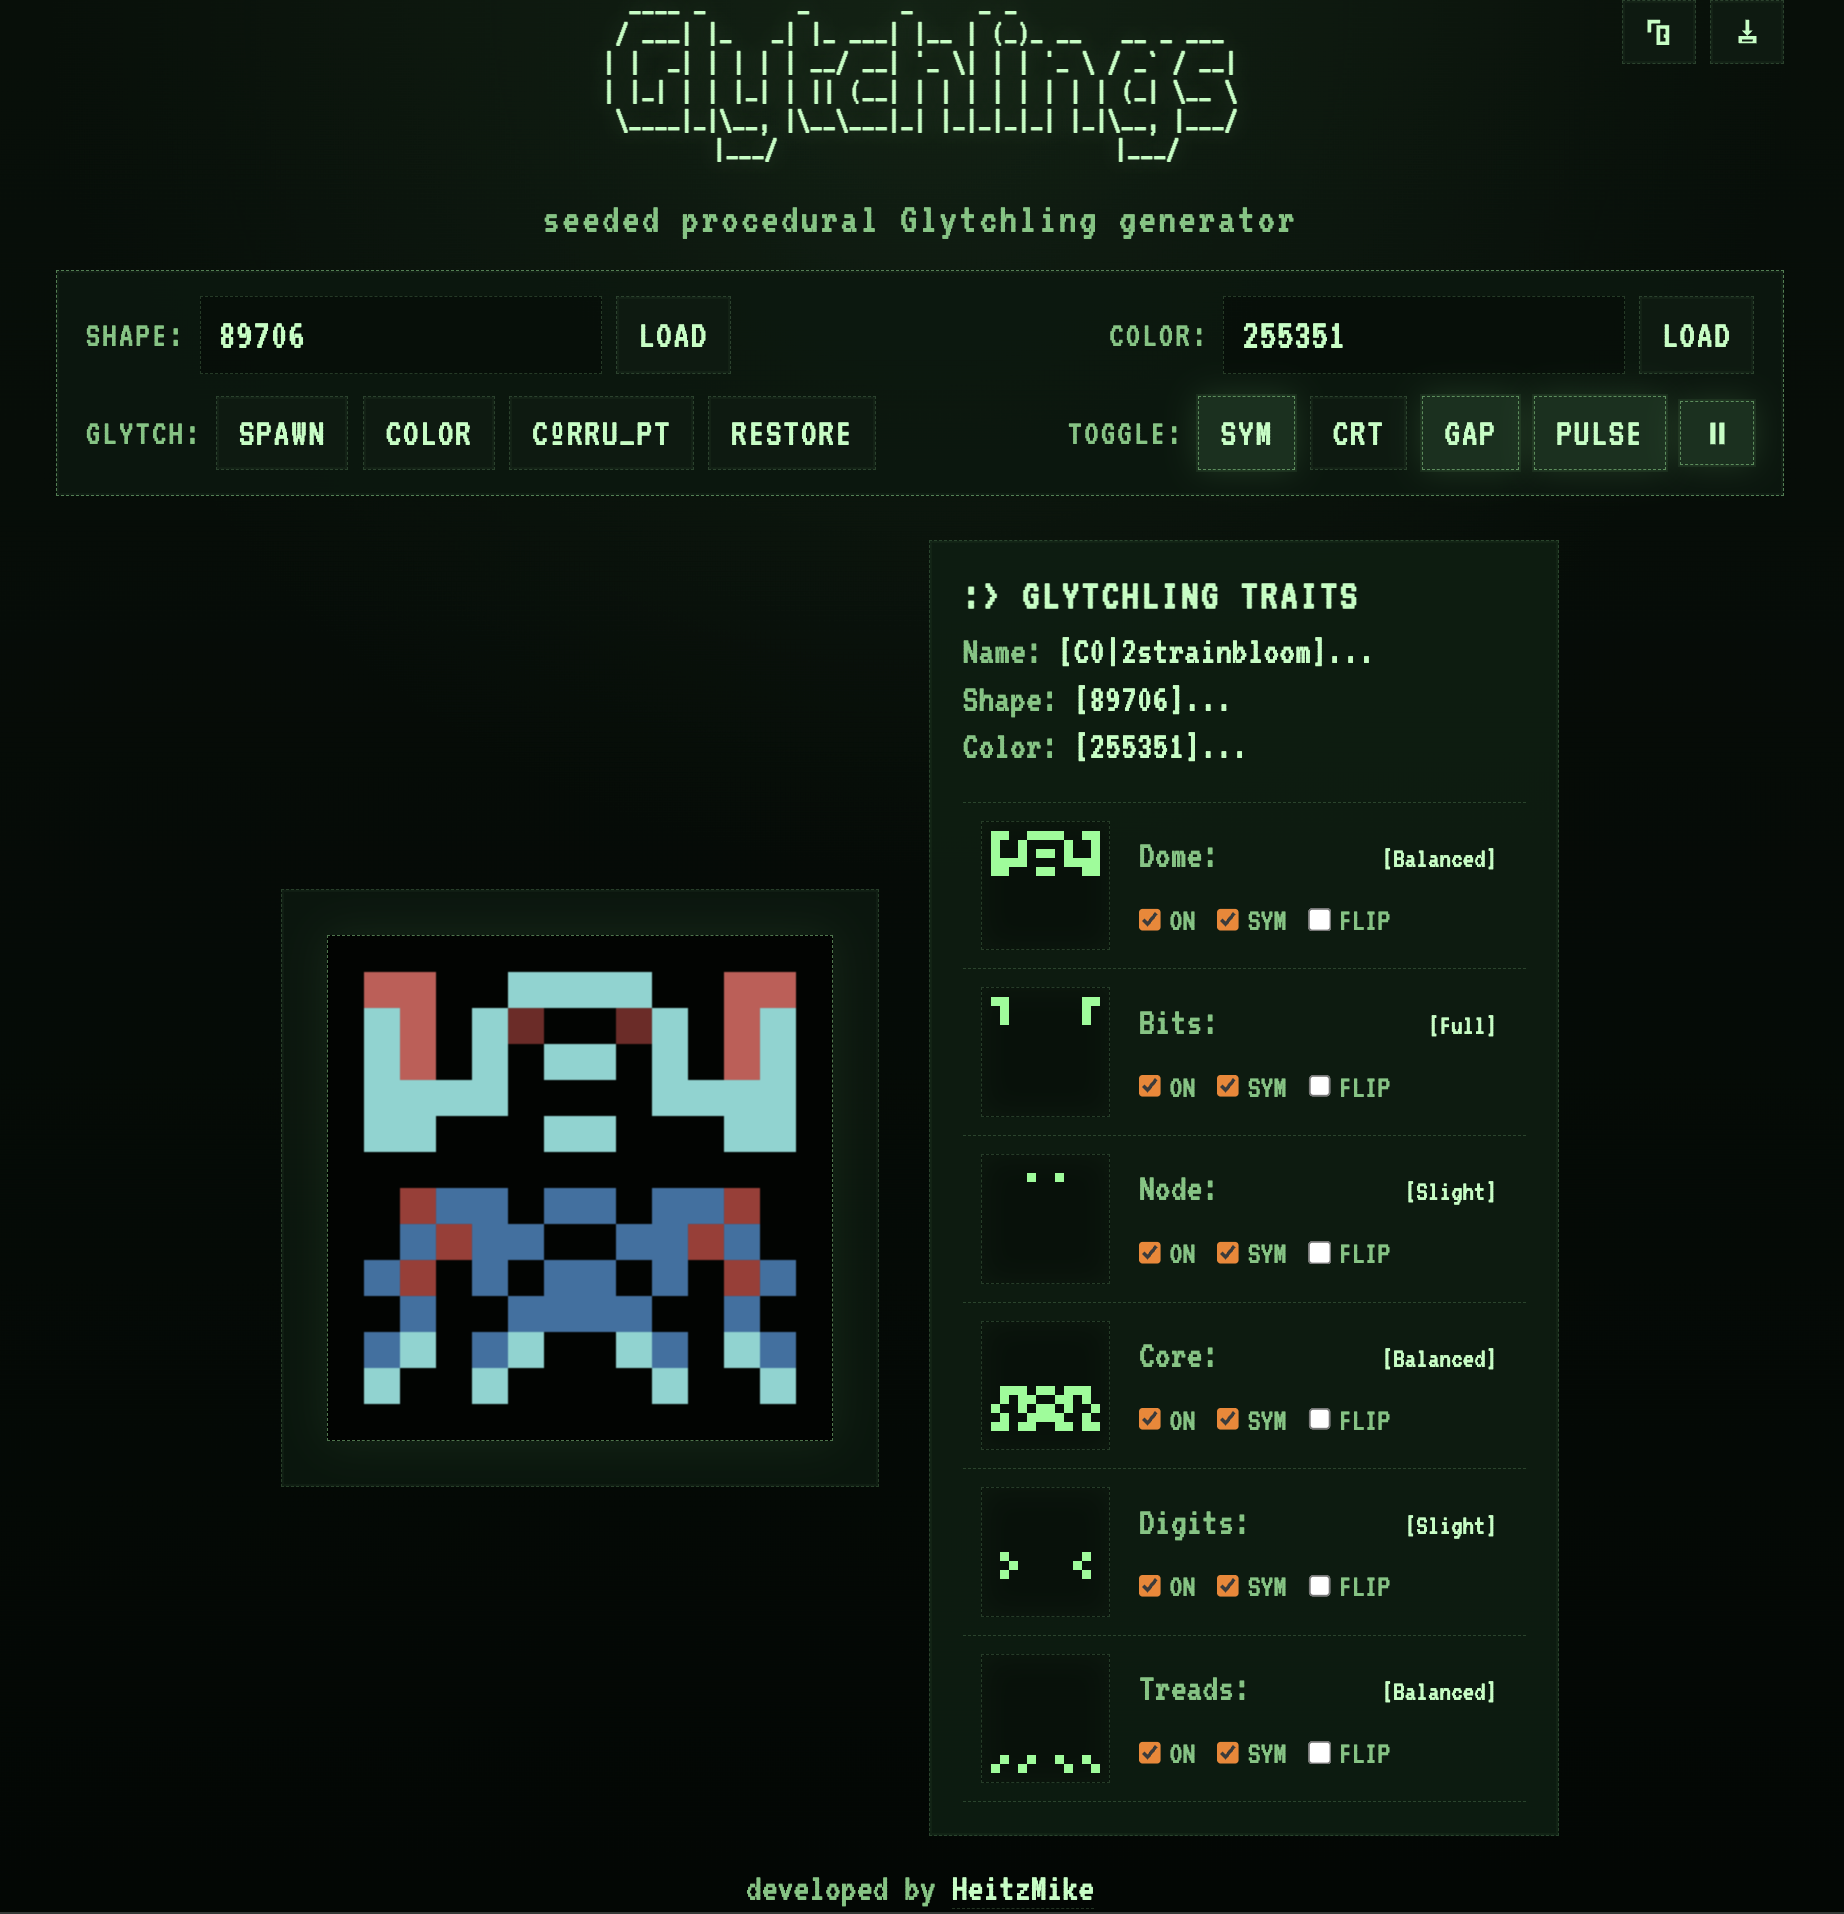
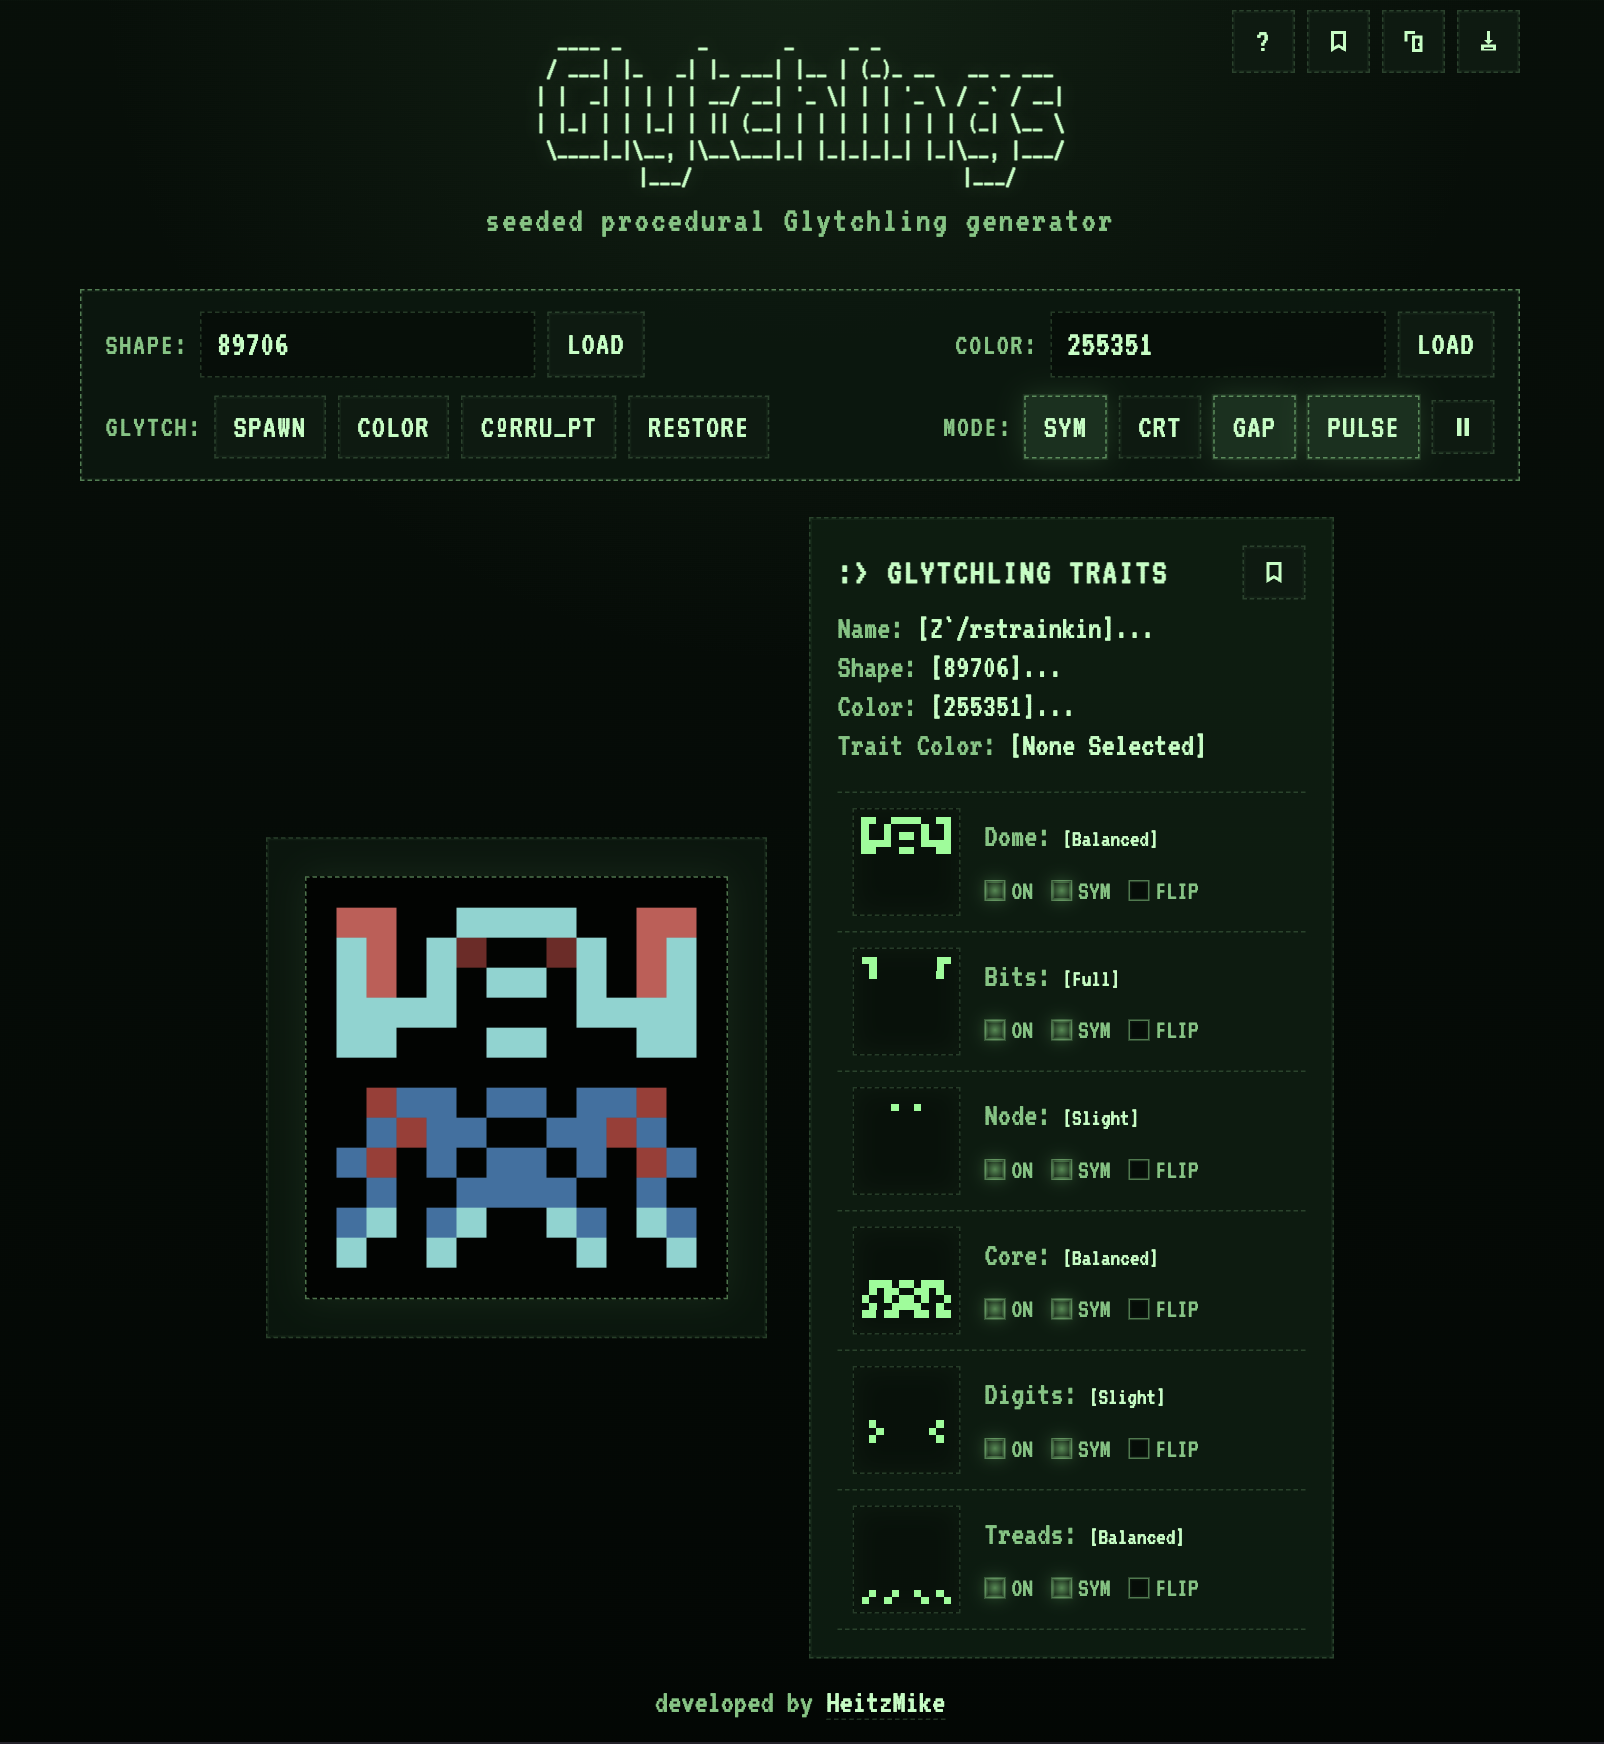
Change Spawn state manipulation, polish UI, update readme

diff --git a/app.js b/app.js
@@ -43,7 +43,9 @@ const headBobButton = document.getElementById('headBobButton');
 const pauseBobButton = document.getElementById('pauseBobButton');
 const neckButton = document.getElementById('neckButton');
 const traitList = document.getElementById('traitList');
-const inspectorFavoriteButton = document.getElementById('inspectorFavoriteButton');
+const inspectorFavoriteButton = document.getElementById(
+  'inspectorFavoriteButton',
+);
 const favoritesList = document.getElementById('favoritesList');
 const favoritesEmpty = document.getElementById('favoritesEmpty');
 
@@ -148,7 +150,8 @@ function applySharedPartState(state, partName, encodedState) {
 
 function encodeSharedPartState(partName, state) {
   if (!state.enabledAttributes[partName]) return '3';
-  if (!state.symmetricAttributes[partName] && state.flippedAttributes[partName]) return '2';
+  if (!state.symmetricAttributes[partName] && state.flippedAttributes[partName])
+    return '2';
   if (!state.symmetricAttributes[partName]) return '1';
   return null;
 }
@@ -239,7 +242,10 @@ function getShareUrl() {
 }
 
 function sanitizeFilenamePart(value) {
-  return value.toLowerCase().replace(/[^a-z0-9]+/g, '-').replace(/^-+|-+$/g, '');
+  return value
+    .toLowerCase()
+    .replace(/[^a-z0-9]+/g, '-')
+    .replace(/^-+|-+$/g, '');
 }
 
 const COPY_ICON_SVG =
@@ -291,7 +297,10 @@ function loadFavoritesFromStorage() {
 
 function persistFavorites() {
   try {
-    window.localStorage.setItem(FAVORITES_STORAGE_KEY, JSON.stringify(favorites));
+    window.localStorage.setItem(
+      FAVORITES_STORAGE_KEY,
+      JSON.stringify(favorites),
+    );
   } catch {
     // Ignore storage failures so the app still works in private/restricted modes.
   }
@@ -368,7 +377,8 @@ const initialUrlState = readSeedStateFromUrl();
 
 shareButton.dataset.defaultContent = COPY_ICON_SVG;
 downloadButton.dataset.defaultContent = DOWNLOAD_ICON_SVG;
-inspectorFavoriteButton.dataset.defaultContent = inspectorFavoriteButton.innerHTML;
+inspectorFavoriteButton.dataset.defaultContent =
+  inspectorFavoriteButton.innerHTML;
 
 let seed = initialUrlState.shapeSeed ?? randomSeed();
 let paletteSeed = initialUrlState.colorSeed ?? randomSeed();
@@ -655,7 +665,8 @@ function createFavoritePreviewDataUrl(state) {
   const previewCtx = previewCanvas.getContext('2d');
   const previewPixel = 5;
   const previewOffset = previewPixel;
-  const getPreviewDrawY = (y) => (y < DOME_HEIGHT || state.neckGapEnabled ? y : y - 1);
+  const getPreviewDrawY = (y) =>
+    y < DOME_HEIGHT || state.neckGapEnabled ? y : y - 1;
 
   previewCanvas.width = (WIDTH + 2) * previewPixel;
   previewCanvas.height = (HEIGHT + 2) * previewPixel;
@@ -716,7 +727,10 @@ function createFavoritePreviewDataUrl(state) {
             Math.max(0, previewPixel - 1),
           );
         } else {
-          previewCtx.fillStyle = getPartColor(previewGlytchling.palette, partName);
+          previewCtx.fillStyle = getPartColor(
+            previewGlytchling.palette,
+            partName,
+          );
           previewCtx.fillRect(drawX, absoluteY, previewPixel, previewPixel);
         }
       }
@@ -889,14 +903,6 @@ function animate() {
 function regenerateGlytchling() {
   seed = randomSeed();
   paletteSeed = randomSeed();
-  enabledAttributes = { ...DEFAULT_ENABLED_ATTRIBUTES };
-  flippedAttributes = { ...DEFAULT_FLIPPED_ATTRIBUTES };
-  symmetricAttributes = { ...DEFAULT_SYMMETRIC_ATTRIBUTES };
-  headBobEnabled = DEFAULT_HEAD_BOB_ENABLED;
-  headBobPaused = false;
-  pausedHeadOffset = 0;
-  neckGapEnabled = DEFAULT_NECK_GAP_ENABLED;
-  terminalModeEnabled = DEFAULT_TERMINAL_MODE_ENABLED;
   glytchling = generateGlytchling(seed, {
     enabledAttributes,
     flippedAttributes,
@@ -967,7 +973,8 @@ async function copyGlytchlingLink() {
 // modes like CRT FX, and uses the name plus current shape/color seeds in the file.
 function downloadGlytchlingImage() {
   const link = document.createElement('a');
-  const safeName = sanitizeFilenamePart(glytchling.name || 'glytchling') || 'glytchling';
+  const safeName =
+    sanitizeFilenamePart(glytchling.name || 'glytchling') || 'glytchling';
 
   link.href = canvas.toDataURL('image/png');
   link.download = `${safeName}-shape-${Math.floor(seed)}-color-${Math.floor(paletteSeed)}.png`;
@@ -1009,7 +1016,10 @@ function saveCurrentFavorite() {
     savedAt: Date.now(),
   };
 
-  favorites = [favorite, ...favorites.filter((entry) => entry.id !== favorite.id)];
+  favorites = [
+    favorite,
+    ...favorites.filter((entry) => entry.id !== favorite.id),
+  ];
   persistFavorites();
   renderFavoritesList();
   flashButtonContent(favoritesSaveButton, 'Saved');

diff --git a/glytchlingGenerator.js b/glytchlingGenerator.js
@@ -141,7 +141,7 @@ function generateDome(grid, partMask, seed, symmetric = true, flipped = false) {
 
   const filledCells = finalLeftHalf.filledCells + rightHalf.filledCells;
 
-  if (filledCells < 24) return 'small';
+  if (filledCells < 24) return 'slight';
   if (filledCells < 38) return 'balanced';
   return 'full';
 }
@@ -180,9 +180,9 @@ function generateCore(grid, partMask, seed, symmetric = true, flipped = false) {
 
   const filledCells = finalLeftHalf.filledCells + rightHalf.filledCells;
 
-  if (filledCells < 28) return 'narrow';
+  if (filledCells < 28) return 'slight';
   if (filledCells < 42) return 'balanced';
-  return 'dense';
+  return 'full';
 }
 
 // Nodes and bits both generate inside small constrained zones near the top of
